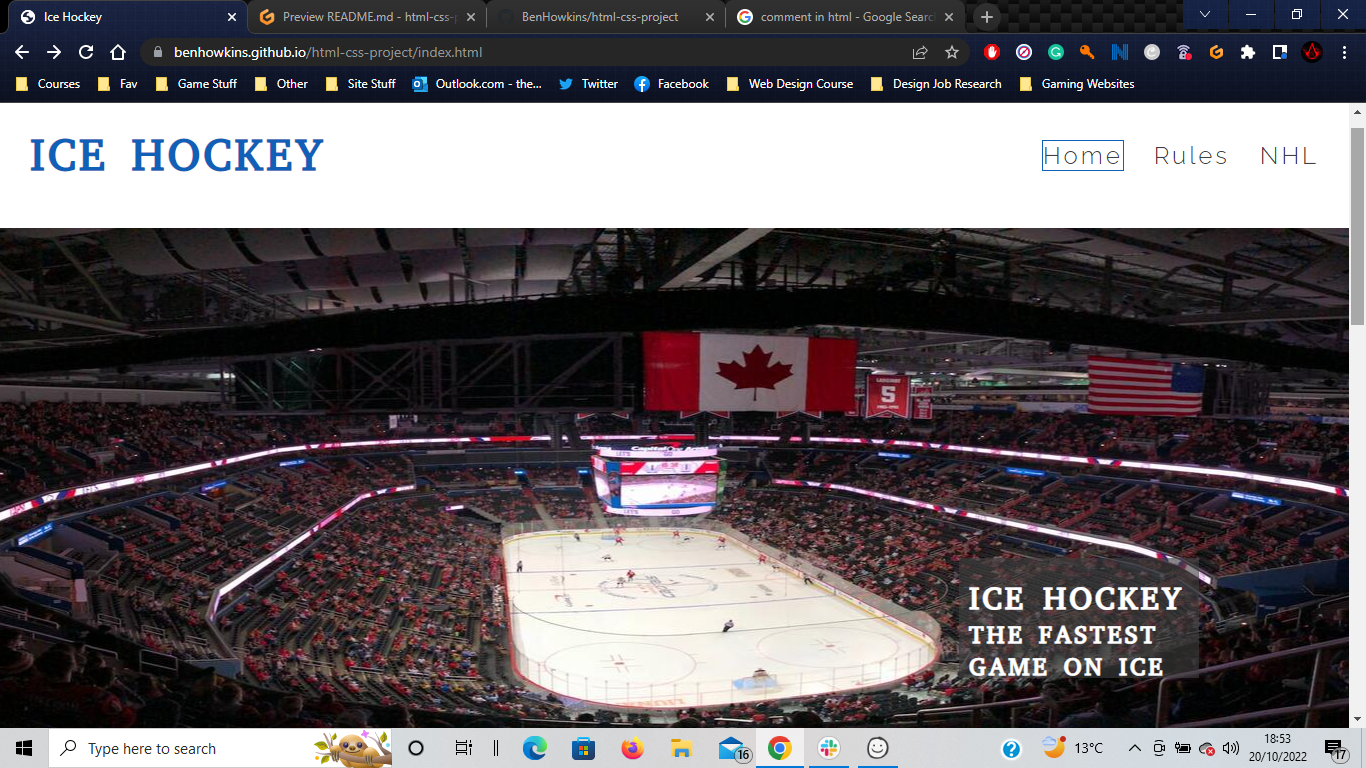
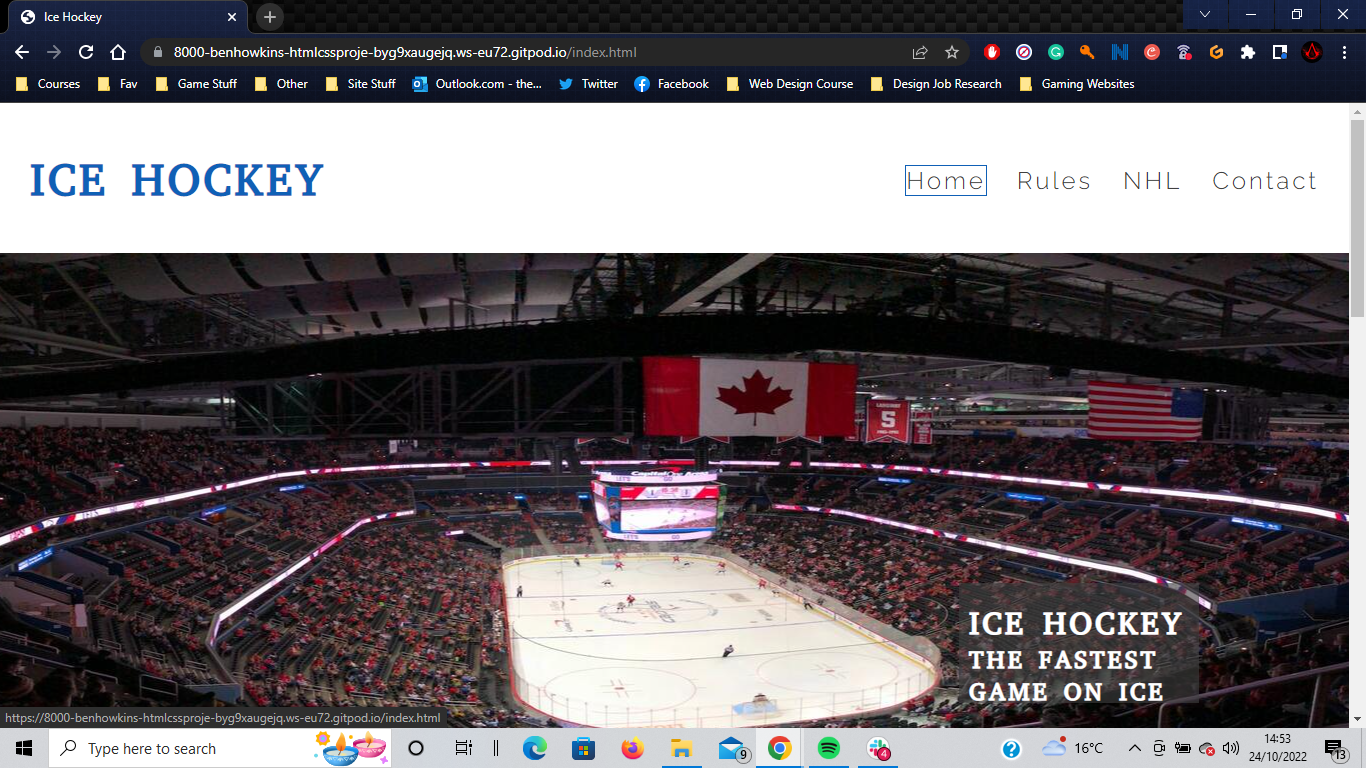
Add video to Rules page, Contact page with form and updated README.md file

diff --git a/contact.html b/contact.html
@@ -1,0 +1,103 @@
+<!DOCTYPE html>
+<html lang="en">
+<head>
+    <meta charset="UTF-8">
+    <meta name="viewport" content="width=device-width, initial-scale=1.0">
+    <meta name="description" content="Infomation about the sport of Ice Hockey, it's rules and the NHL">
+    <meta name="keywords" content="ice hockey, sports, nhl">
+    <link rel="stylesheet" href="assets/css/style.css">
+    <title>Ice Hockey</title>
+</head>
+
+<body>
+
+    <!-- Header Section With Logo And Nav Bar -->
+    <header>
+
+        <a href="index.html">
+            <h1 id="logo">Ice Hockey</h1>
+        </a>
+        <nav>
+            <ul id="menu">
+                <li>
+                    <a href="contact.html" class="active">Contact</a>
+                </li>
+                <li>
+                    <a href="nhl.html">NHL</a>
+                </li>
+                <li>
+                    <a href="rules.html">Rules</a>
+                </li>
+                <li>
+                    <a href="index.html">Home</a>
+                </li>
+            </ul>
+        </nav>
+    </header>  
+    
+    <!-- Hero Image -->
+
+    <section id="hero-outer">
+        <div id="hero-image"></div>
+        <div id="hero-text">
+            <h2>Ice Hockey</h2>
+            <h3>The Fastest Game On Ice</h3>
+        </div>
+    </section>
+
+    <section id="sign-up">
+        <h2 class="welcome"> Sign-Up For More Information</h2>
+        <form class="contact-form" method="post" action="index.html">
+            <h2>Tell Us About You</h2>
+            <br>
+            <label for="fname">First Name</label>
+            <input type="text" id="fname" name="first_name" required>
+            <br>
+            <label for="lname">Last Name</label>
+            <input type="text" id="lname" name="last_name" required>
+            <br>
+            <label for="email">Email Address</label>
+            <input type="email" id="email" name="email_address" required>
+            <br>
+            <br>
+            <h2>What Do You Want To Know About?</h2>
+            <label for="general-news">General News Updates</label>
+            <input type="radio" id="general-news" name="info-type" value="general-news" required>
+            <br>
+            <label for="nhl-news">NHL News Updates</label>
+            <input type="radio" id="nhl-news" name="info-type" value="nhl-news">
+            <br>
+            <label for="both">All The Hockey News</label>
+            <input type="radio" id="both" name="info-type" value="both">
+            <br>
+            <br>
+            <input class="submit" type="submit" value="LET'S PLAY HOCKEY!!">
+        </form>
+
+    </section>
+
+    <!-- Footer Section -->
+
+    <footer>
+        <ul class="helpful-link">
+            <li>
+                <a href="https://en.wikipedia.org/wiki/Ice_hockey" target="_blank" rel="noopener"
+                aria-label="Visit the Ice Hockey wikipedia page (opens in a new tab)">Ice Hockey Wikipedia<i class="fab fa-wikipedia-w"></i></a>
+            </li>
+            <li>
+                <a href="https://en.wikipedia.org/wiki/Penalty_(ice_hockey)#Quick_reference_chart" target="_blank" rel="noopener"
+                aria-label="Visit the Ice Hockey Penalties wikipedia page (opens in a new tab)">Penalties Wikipedia<i class="fal fa-whistle"></i></a>
+            </li>
+            <li>
+                <a href="https://www.nhl.com/" target="_blank" rel="noopener"
+                aria-label="Visit the NHL page (opens in a new tab)">NHL Website<i class="fas fa-hockey-puck"></i></a>
+            </li>
+        </ul>
+    </footer>
+    
+    <!-- Font Awesome script-->
+        
+    <script src="https://kit.fontawesome.com/226f6da905.js" crossorigin="anonymous"></script>
+</body>
+    
+</html>

diff --git a/rules.html b/rules.html
@@ -20,6 +20,9 @@
         <nav>
             <ul id="menu">
                 <li>
+                    <a href="contact.html">Contact</a>
+                </li>
+                <li>
                     <a href="nhl.html">NHL</a>
                 </li>
                 <li>
@@ -79,6 +82,9 @@
                     <strong>Please See Diagram Below For Further Clarification</strong>
                     <br>
                 </p>
+
+                <!-- Hockey Rink Image -->
+
                 <a><img id="rink" src="assets/images/hockey-rink.png" alt="Hockey Rink"></a>
             </div>
 
@@ -88,7 +94,17 @@
                 <h2>Penalties</h2>
                 <hr>
                 <div class="left-information">
-                    <p>In Ice Hockey there are several different types of penalties that teams can commit resulting in different levels of punishment. The five main types of penalties are Game Stop, Minor, Major, Game and Team & Misconduct. Apart from Game Stop penalties, all penalties will result in the offending player or players having to sit in the penalty box for the duration of the penalty causing their team to be shorthanded and be on Walled the "Penalty Kill" or PK whilst their opponents are on a "Power Play" or PP. The only exception to this is if a goaltender is penalised, then a player who was on the ice at the time must sit it out for them.</p>
+                    <p>
+                        In Ice Hockey there are several different types of penalties that teams can commit resulting in different levels of punishment. The five main types of penalties are Game Stop, Minor, Major, Game and Team & Misconduct. Apart from Game Stop penalties, all penalties will result in the offending player or players having to sit in the penalty box for the duration of the penalty causing their team to be shorthanded and be on what is called the "Penalty Kill" or PK whilst their opponents are on a "Power Play" or PP. The only exception to this is if a goaltender is penalised, then a player who was on the ice at the time must sit out the penalty for them. <br><br>
+                        When a penalty is commited it will be signaled and called by one of the officials using a certain hand signal or motion depending on the penalty that has been committed.
+                    </p>
+                    <p style="text-align: center;">
+                        <br>
+                        <strong>Below is a short and fun video showing some of the most common signals used.</strong>
+                        <br>
+                        <br>
+                        <iframe id="pens-vid" src="https://www.youtube.com/embed/CT4_oqCR6JI" title="YouTube video player" controls muted></iframe>
+                    </p>
                 </div>
                 <div class="left-information">
                     <h3>Game Stop</h3>

diff --git a/assets/css/style.css b/assets/css/style.css
@@ -182,6 +182,11 @@ footer {
     margin: auto;
 }
 
+#pens-vid {
+    width: 600px;
+    height: 400px;
+}
+
 #pen-info {
     padding: 15px;
     height: 800px;
@@ -240,6 +245,23 @@ footer {
     color: #0F60B6;   
 }
 
+/* Contact Page */
+
+#sign-up {
+    height: 400px;
+}
+
+.contact-form {
+    border: 1px solid black;
+    background-color: #F2F2F2;
+    padding: 15px;
+    text-transform: uppercase;
+    letter-spacing: 3px;
+}
+
+.submit {
+    background: #fff;
+}
 /* For medium screen sizes from 950px wide and down */
 @media screen and (max-width: 950px) {
 
@@ -249,14 +271,15 @@ footer {
     }
 }
 
-/* For small screen sizes 800px and down */
+/* For small screen sizes 750px and down */
 @media screen and (max-width: 800px) {
     
     #menu {
+        font-size: 100%;
         clear: left;
         float: left;
-        margin-left: 30px;
-        margin-bottom: 20px;
+        margin-left: 5px;
+        margin-bottom: 5px;
         line-height: 25px;
     }
 
@@ -282,6 +305,11 @@ footer {
         height: 50%;
     }
 
+    #pens-vid {
+        height: 150px;
+        width: 250px;
+    }
+
     .conference {
         margin: 5px;
         height: 4000px;
@@ -298,5 +326,9 @@ footer {
 
     .team-logo {
         height: 33%;
+    }
+
+    #sign-up {
+        height: 500px;
     }
 }

diff --git a/index.html b/index.html
@@ -20,6 +20,9 @@
         <nav>
             <ul id="menu">
                 <li>
+                    <a href="contact.html">Contact</a>
+                </li>
+                <li>
                     <a href="nhl.html">NHL</a>
                 </li>
                 <li>
@@ -64,6 +67,9 @@
                 </div>
                 <br>
                 <br>
+
+                <!-- Hockey Gear Image -->
+
                 <img id="center-image" src="assets/images/hockey-gear.png" alt="Hockey Gear">
                 <br>
                 <br>

diff --git a/nhl.html b/nhl.html
@@ -18,6 +18,9 @@
         <nav>
             <ul id="menu">
                 <li>
+                    <a href="contact.html">Contact</a>
+                </li>
+                <li>
                     <a href="nhl.html" class="active">NHL</a>
                 </li>
                 <li>

diff --git a/README.md b/README.md
@@ -4,17 +4,15 @@
 
 <img src ="assets/images/screenshots/index-hero.png">
 
-<img src ="assets/images/screenshots/index-info-and-gear.png">
-
-<img src ="assets/images/screenshots/rules-info.png">
-
 <img src ="assets/images/screenshots/rules-info-and-rink.png">
 
-<img src ="assets/images/screenshots/nhl-info.png">
+<img src ="assets/images/screenshots/rules-video.png">
 
 <img src ="assets/images/screenshots/nhl-pacific.png">
 
-This is a information website for the sport of Ice Hockey. It is designed to be responsibe and accessible on a range of devices, allowing for the max amount of people to be able to access it and it's information.
+<img src ="assets/images/screenshots/contact-form.png">
+
+This is an information and reference website for the sport of Ice Hockey. It is designed to be responsibe and accessible on a range of devices, allowing for the max amount of people to be able to access the site and it's information.
 
 ## User Experience (UX)
 
@@ -76,17 +74,32 @@ The W3C Markup Validator and W3C CSS Validator Services were used to validate ev
 
     1. 1. As a First Time Visitor, I want to easily understand the main purpose of the site and be able to learn some basic history and rules of the sport.
 
-        1. Upon entering the site, the first thing users are greeted with is a clear title and easily readable navigation bar to go to the page of their choice. Underneath there is a Hero Image with Text and then a short, bold heading explaining the content below.
+        1. Upon entering the site, the first thing users are greeted with is a clear title and easily readable navigation bar to go to the page of their choice. Underneath there is a Hero Image with Text and then a short, bold heading explaining the content below. (See Screenshots Below)
+
+        <img src ="assets/images/screenshots/index-hero.png">
+        
+        <img src ="assets/images/screenshots/index-info-and-gear.png">
+        
         2. The hero image give a quick look at the content and makes them want to find out more.
         3. The user has two options, scroll down to see more content on the topic outlined in the heading or clink one of the navagation links to go another page of their choice.
 
     2. As a First Time Visitor, I want to be able to easily be able to navigate throughout the site to find content.
 
-        1. The site has been designed so that all relivant content is together but the text is also spaced and has different orientations so it doesn't become too repetitive and overwhelming.
-        2. At the top of each page there is a navigation bar, with each link describing what page they will end up on and a one word description of it's content.
+        1. The site has been designed so that all relivant content is together but the text is also spaced and has different orientations so it doesn't become too repetitive and overwhelming. (See Screenshots Below)
+
+        <img src ="assets/images/screenshots/rules-info.png">
+
+        <img src ="assets/images/screenshots/nhl-info.png">
+
+
+        2. At the top of each page there is a navigation bar, with each link describing what page they will end up on and a one word description of it's content. (See Screenshot Below)
+
+        <img src ="assets/images/screenshots/index-hero.png">
 
     3. As a First Time Visitor, I want to be further expand my knowledge and understanding of the information by using the links to other external sources provided.
-        1. At the bottom of each page there is a Footer bar with links to external sites, each one further expanding on outlined information from each page.
+        1. At the bottom of each page there is a Footer bar with links to external sites, each one further expanding on outlined information from the three information pages. (See Screenshot Below)
+
+        <img src ="assets/images/screenshots/index-footer.png">
 
 -   #### Returning Visitor Goals
 
@@ -104,6 +117,11 @@ The W3C Markup Validator and W3C CSS Validator Services were used to validate ev
 -   The website was viewed on a variety of devices such as Desktop, Laptop, Kindle Fire Tablets, iPhone 12 and Huawei Pro30.
 -   A large amount of testing was done to ensure that all pages were linking correctly.
 -   Friends and family members were asked to review the site and documentation to point out any bugs and/or user experience issues.
+
+### Issues Arose During Testing
+
+-   On smaller devices such as Tablets and Smartphone some people experienced some of the images being streched and looking slightly distorted. This was due to me not recalculating percentage differences for new div and container sizes for smaller images, so once I recalculated the issue was resolved.
+-   Also on some smaller devices in particular iphones some people experienced having the footer links inside the "Is Ice Hockey Popular?" section of the "Home" page. This was due to the "key-info" container being slightly too small for the screen size of the iphone and was fixed by increasing the container's size.
 
 ### Known Bugs
 
